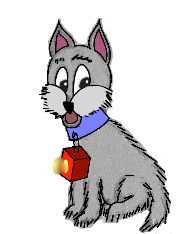
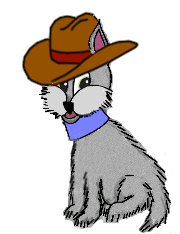
Final Shooting

Changed region(s): [[0.1111, 0.0299, 0.7778, 0.3889], [0.2778, 0.4786, 0.5278, 0.8376]]

diff --git a/Shooting/public_html/index.html b/Shooting/public_html/index.html
@@ -21,15 +21,21 @@ Shooting
          <!--Game Title -->
          <h1> Trick Shot </h1>
          
-         <!--Instructions -->
-         <div class="instructions">
-             <h3> Instructions: </h3>
-         </div>
-         
-         <!--Canvas -->
-         <div id="canvas">
+         <!--Mascot -->
+      <img class="mascot" src="images/mascot.png" alt="Mascot">
+      
+        <!--Instructions -->
+      <div class="instructions">
+
+            <h3> Story: </h3>            
+            A stranger wants to show off his shooting skills. <br>Can he figure out where to shoot from in order to get the bullet in the bucket?<br><br>
             
-         </div>
+            </div>
+         <!--Canvas -->
+         <div id="canvas">  </div>
+            
+          
+        
          <script type="text/javascript">
                 var screen = new World(300, 275, 25, 0);
                 var game = new Shooter(screen);
@@ -48,6 +54,11 @@ Shooting
             <source  src="sounds/253177__suntemple__retro-accomplished-sfx.wav" type="audio/wav">
                     Your browser does not support the audio tag
         </audio>
+         
+          <h3> How to Move: </h3>
+            <h4>Use the arrow keys to move mystery Cowboy, er....player, the space bar will fire a bullet <br>
+            Click on the mirrors with the mouse to change positions.</h4>
+         
     </body>
 </html>
 

diff --git a/Shooting/public_html/Rules.js b/Shooting/public_html/Rules.js
@@ -10,7 +10,7 @@
  update objects
  */
 var player, mirrors = [], win;
-var level = 1, screen;
+var level = 0, screen;
 var count;
 var mirNum = 15;
 var bullet, bullCount = 0;
@@ -147,8 +147,8 @@ function createLevel() {
             }
             for (i = 4; i < 8; i++) {
                 screen.setGridVal(2 + i, i, 1);
-                mirrors[i] = new Sprite(screen, screen.tileWidth, screen.tileWidth, "images/mirror1.png", (i * screen.tileWidth) + (2 * screen.tileWidth), (i * screen.tileWidth) + screen.tileWidth, 1);
-                mirrors[i].setDir(2);
+                mirrors[i] = new Sprite(screen, screen.tileWidth, screen.tileWidth, "images/mirror2.png", (i * screen.tileWidth) + (2 * screen.tileWidth), (i * screen.tileWidth) + screen.tileWidth, 1);
+                mirrors[i].setDir(1);
 
             }
 

diff --git a/Shooting/public_html/style.css b/Shooting/public_html/style.css
@@ -14,6 +14,7 @@ canvas {
     margin:auto;
     border: 1px dashed black;
     background-color: black ;
+    background: url(images/bg.png);
   
     
 }
@@ -25,7 +26,7 @@ h1{
 .mascot{
    position: absolute;
     top: 0px;
-    right: 5px;
+    right: 10px;
   
     
 }
